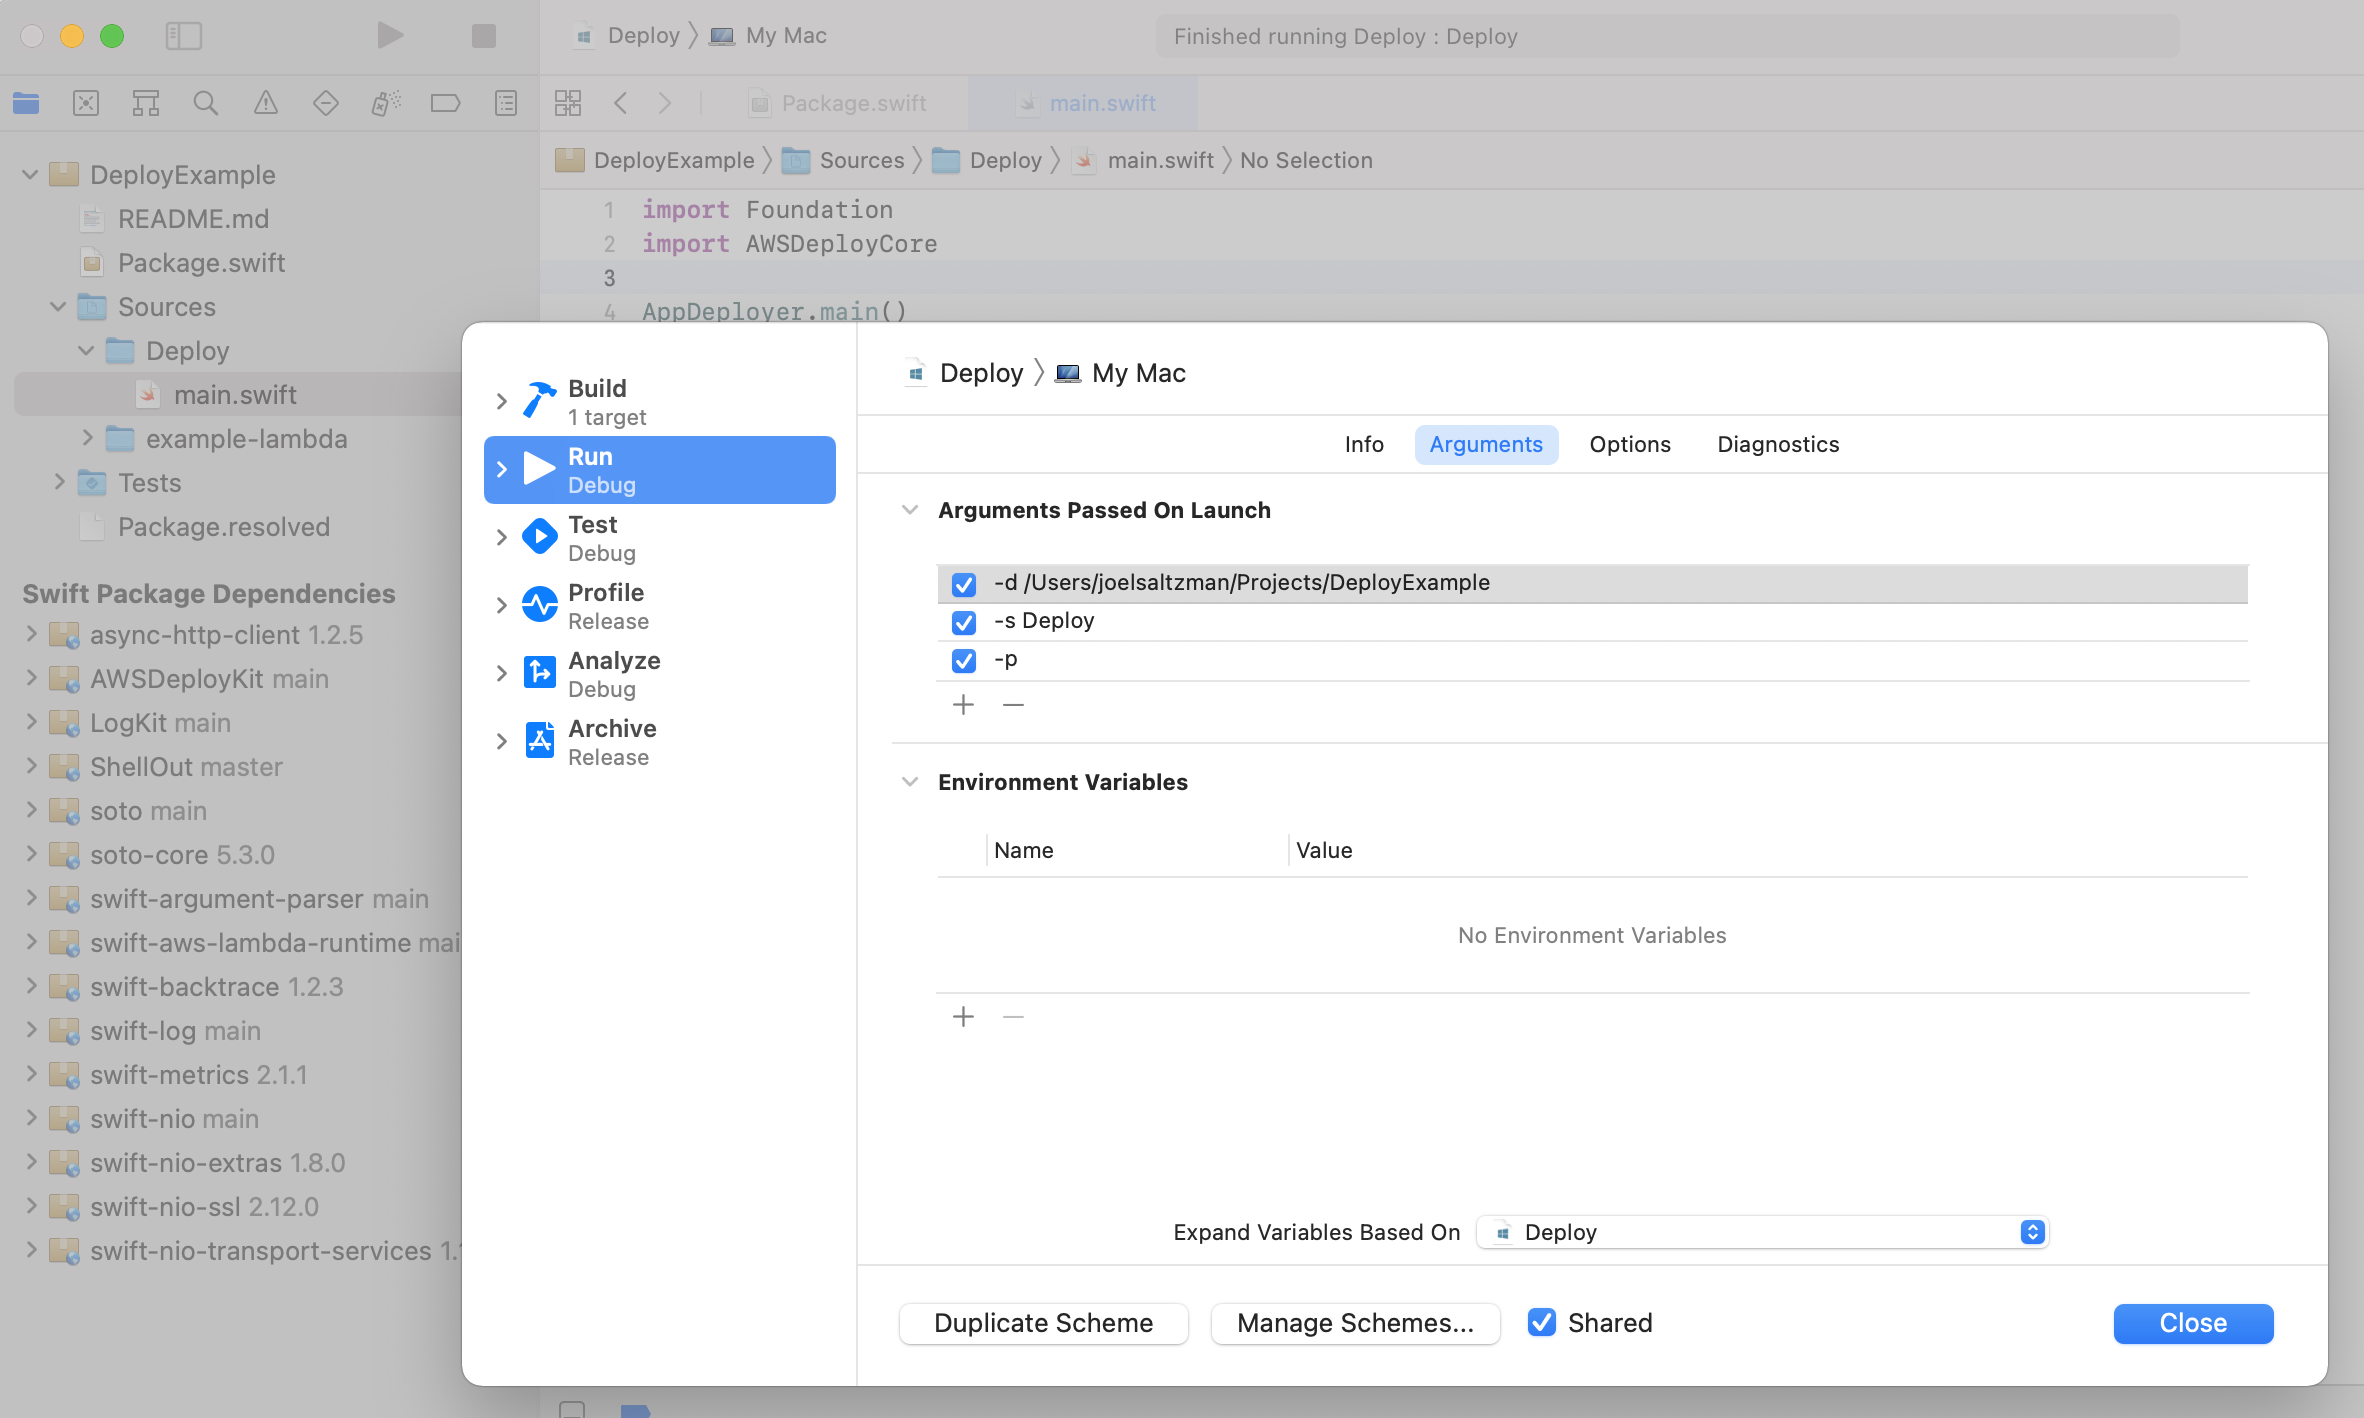
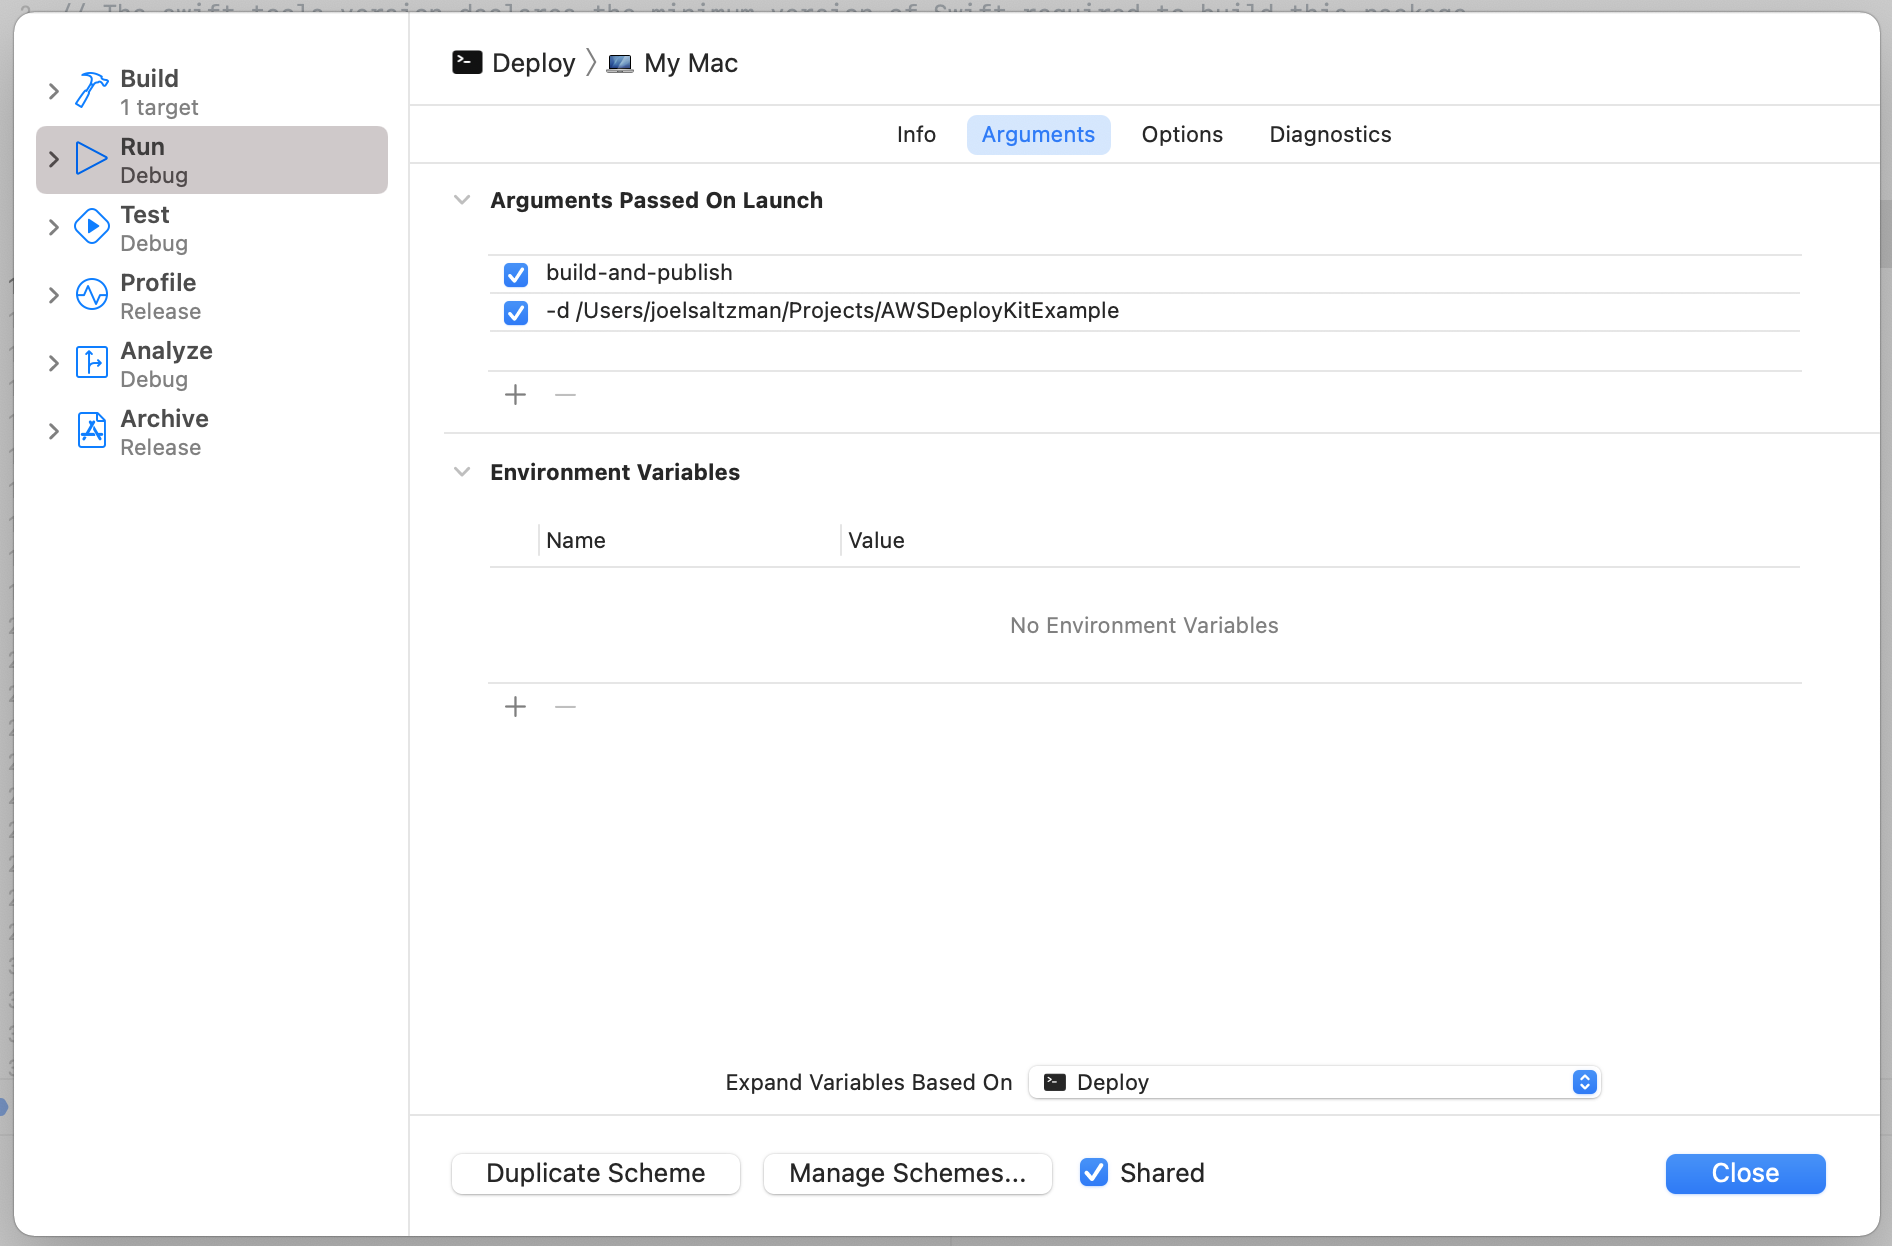
Cleaned up help files

diff --git a/Package.swift b/Package.swift
@@ -47,8 +47,7 @@ let package = Package(
                 .product(name: "ArgumentParser", package: "swift-argument-parser"),
                 .product(name: "AWSLambdaRuntime", package: "swift-aws-lambda-runtime"),
                 .product(name: "AWSLambdaEvents", package: "swift-aws-lambda-runtime"),
-            ],
-            resources: [.process("scripts")]
+            ]
         ),
         .testTarget(
             name: "AWSDeployCoreTests",

diff --git a/README.md b/README.md
@@ -6,38 +6,38 @@
 
 Helps with building Swift packages in Linux and publishing to an AWS Lambda. 
 
-The `aws-deploy` product is simply an executable target for the `AWSDeploy` object. If you plan on [using this from the command line](#using-from-the-command-line), you will simply build the aws-deploy target and copy the product somewhere. However, I prefer to use this in Xcode, more on this [below](#use-this-in-xcode)
-
 ## TLDR
+If you plan on [using this from the command line](#using-from-the-command-line), you will simply build the aws-deploy target and copy the product to somewhere. However, I prefer to use this in Xcode, more on this [below](#use-this-in-xcode)
+
 ```shell
 git clone https://github.com/saltzmanjoelh/aws-deploy-kit.git && \
 cd aws-deploy-kit && \
 swift build && \
-swift run aws-deploy -d /path/to/project aws-lambda-function-name
+swift run aws-deploy build-and-publish -d /path/to/project aws-lambda-function-name
 ```
 
-## How does it work?
+## [Commands](cli-help/)
+### [Build](cli-help/02-build.md)
+Build one or more executables inside of a Docker container. 
 
-### Pick a path
-In it's simpliest form, you execute the `aws-deploy` binary and it will use your current working directory. You can override this and specify which directory with `-d path-to-package` or `--directoryPath path-to-package`. 
+It will read your Swift package and build the executables of your choosing. If you leave the defaults, it will build all of the executables in the package. You can optionally choose to skip targets, or you can tell it to build only specific targets.
 
-### Build
-Build one or more executables inside of a Docker container. It will read your Swift package and build the executables of your choosing. If you leave the defaults, it will build all of the executables in the package. You can optionally choose to skip targets, or you can tell it to build only specific targets.
+It will use your current working directory. You can override this and specify which directory with `-d path-to-package` or `--directoryPath path-to-package`. 
 
 The Docker image `swift:5.3-amazonlinux2` will be used by default. You can override this by adding a Dockerfile to the root of the package's directory. 
 
-The built products will be available at `./build/lambda/$EXECUTABLE/`. You will also find a zip in there which contains everything needed to update AWS Lambda code. The archive will be in the format `$EXECUTABLE_NAME.zip`.
+The built products will be available at `./build/lambda/$EXECUTABLE_NAME/`. You will also find a zip in there which contains everything needed to update AWS Lambda code. The archive will be in the format `$EXECUTABLE_NAME.zip`.
 
-The build command has options available to build, publish and invoke all in one command. Please see the `aws-deploy build --help` for reference.
+Please see the [aws-deploy build --help](cli-help/02-build.md) for a complete reference on this command.
 
-### Publish
+### [Publish](cli-help/03-publish.md)
 Publish the changes to a Lambda function using a blue green process.
 
 If there is no existing Lambda with a matching function name, this will create it for you. A role will also be created with AWSLambdaBasicExecutionRole access and assigned to the new Lambda.
 
 If the Lambda already exists, it's code will simply be updated.
 
-We test that the Lambda doesn't have any startup errors by using the Invoke API, please check the `aws-deploy invoke --help` for reference. If invoking the function does not abort abnormally, the supplied alias (the default is `development`) will be updated to point to the new version of the Lambda.
+We test that the Lambda doesn't have any startup errors by using the Invoke API, please check the [aws-deploy invoke --help](cli-help/04-invoke.md) for reference. If invoking the function does not abort abnormally, the supplied alias (the default is `development`) will be updated to point to the new version of the Lambda.
 
 The blue/green deployment steps are as follows:
 * Create/update the Lambda function code. [CreateFunction](https://docs.aws.amazon.com/lambda/latest/dg/API_CreateFunction.html) / [UpdateFunctionCode](https://docs.aws.amazon.com/lambda/latest/dg/API_UpdateFunctionCode.html)
@@ -50,9 +50,17 @@ The blue/green deployment steps are as follows:
 Invoke your Lambda. This is used in the publishing process to verify that the Lambda is still running properly before the alias is updated. You could also use this when debugging. Please read the `aws-deploy invoke help` for more details.
 
 ## Using in Xcode
-The goal here is to be able to deploy your Lambda functions from within the project that you are working. You will simply switch your run target to the deployment target and publish a new versions of your Lambda. The steps will basically be duplicating the `aws-deploy` target from `aws-deploy-kit`.
+The goal here is to be able to deploy your Lambda functions from within the project that you are working with. You will simply switch your run target to the deployment target and publish a new version of your Lambda. The steps will basically be duplicating the `aws-deploy` target from `aws-deploy-kit`.
 
-* From your `swift-aws-lambda-runtime` project, create a new target that depends on `AWSDeployCore`. Let's call this `Deploy` for the example.
+From your project that uses `swift-aws-lambda-runtime`, add `aws-deploy-kit` as a dependency.
+```swift
+dependencies: [
+        .package(url: "https://github.com/swift-server/swift-aws-lambda-runtime.git", .branch("main")),
+        .package(url: "https://github.com/saltzmanjoelh/aws-deploy-kit", .branch("main")),
+    ],
+```
+
+Create a new target. Let's call this new target `Deploy` for the example.
 ```swift
 .target(
     name: "Deploy",
@@ -61,7 +69,7 @@ The goal here is to be able to deploy your Lambda functions from within the proj
     ]),
 ```
 
-* You only need 2 lines in the `main.swift` file:
+You only need 2 lines in the `main.swift` file:
   ```swift
   import AWSDeployCore
   AWSDeploy.main()
@@ -69,8 +77,9 @@ The goal here is to be able to deploy your Lambda functions from within the proj
   
 * Switch your selected target in Xcode to your new target `Deploy`.
 * Press `cmd` + `shift` + `<` to edit the scheme.
+* Add the `build-and-publish` command in the "Arguments Passed On Launch" section
 * Add the path to your project in the "Arguments Passed On Launch" section `-d /path/to/project/`.
-* This is enough to build in Docker. You can optionally pass the `-p` to publish to your Lambda.
+* This is enough to build in Docker and publish to an AWS Lambda
 ![Example Setup](ExampleSetup.png)
 
 Now when you want to deploy, simply pick your new target and run. Logs should appear in the Xcode console. 
@@ -78,21 +87,8 @@ Now when you want to deploy, simply pick your new target and run. Logs should ap
 You can take a look at the [AWSDeployKitExample](https://github.com/saltzmanjoelh/AWSDeployKitExample) project as well.
 
 
-
 ## Using from the command line
 
 * Build the `aws-deploy` target.
 * Copy to `/usr/local/bin` or similar.
 * Run it with the path to your project directory. `aws-deploy -d /path/to/project executable-name -p`.
-
-
-### TODO
-Always check for alias, not just on creation
-
-The input for the Lambdas can vary. Maybe it takes a string value or maybe it takes json string that decodes to a dictionary.
-Add a build sub command
-Add an invoke subcommand to help debug with.
-The default action is to build. We will need an option to specify the json payload. If it begins with "file://", read the file. This option should use the invoke subcommand
-It should work similar to building in that you can test all endpoints, skip some, or be specific
-Check for a .invoke file to test the lambda with?
-You can invoke a local or remote endpoint.

diff --git a/cli-help/02-build.md b/cli-help/02-build.md
@@ -1,8 +1,8 @@
 ```shell
-OVERVIEW: Build one or more executables inside of a Docker container. It will
-read your Swift package and build the executables of your choosing. If you
-leave the defaults, it will build all of the executables in the package. You
-can optionally choose to skip targets, or you can tell it to build only
+OVERVIEW: Build one or more executables inside of a Docker container. 
+It will read your Swift package and build the executables of your choosing. 
+If youleave the defaults, it will build all of the executables in the package. 
+You can optionally choose to skip targets, or you can tell it to build only
 specific targets.
 
 The Docker image `swift:5.3-amazonlinux2` will be used by default. You can

diff --git a/cli-help/04-invoke.md b/cli-help/04-invoke.md
@@ -11,7 +11,7 @@ ARGUMENTS:
                           my-function:v1 (with alias).
                           Function ARN -
                           arn:aws:lambda:us-west-2:123456789012:function:my-function.
-Partial
+                          Partial
                           ARN - 123456789012:function:my-function.
                           You can append a version number or alias to any of
                           the formats. The length constraint applies only to
